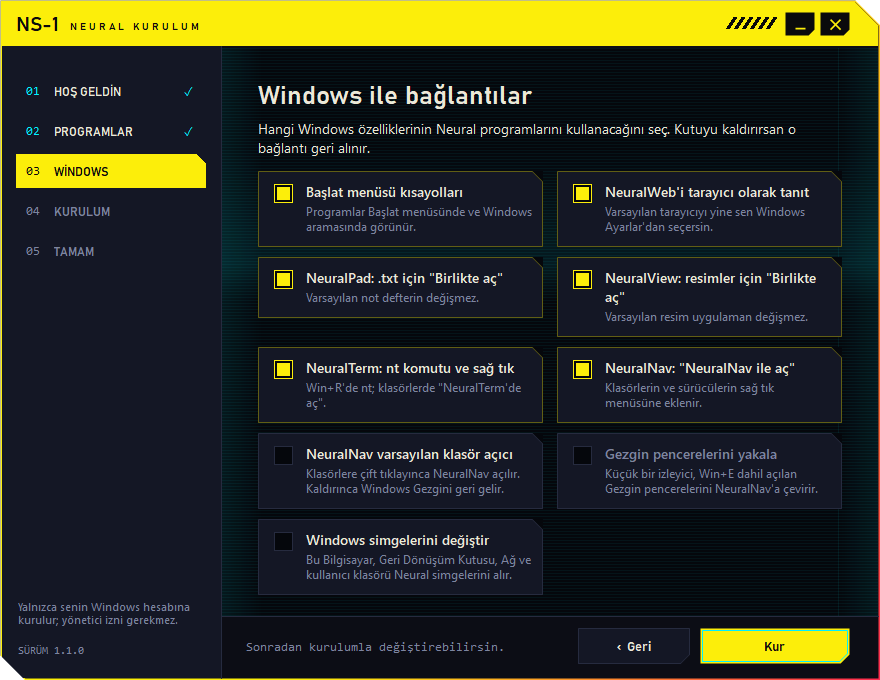
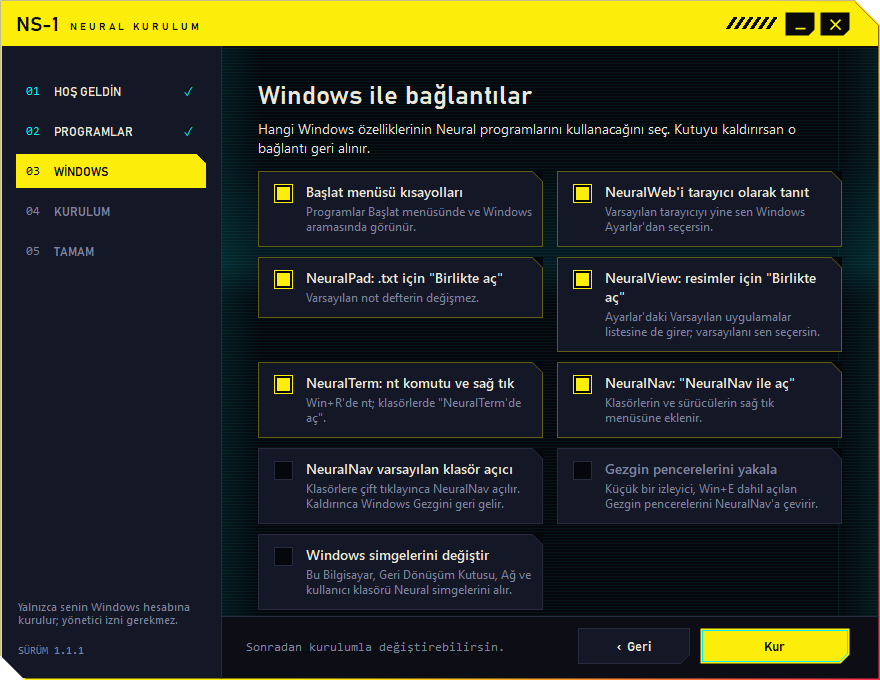
Release 1.1.1 "Karakoy": NeuralView in Windows' Default apps list
Windows lets only the user choose a default app, so double-clicking a
picture kept opening the previous default even with NeuralView in "Open
with". The setup now registers NeuralView under RegisteredApplications with
Capabilities for its twelve picture types, so it has its own page in
Settings > Apps > Default apps. The entries belong to the NeuralView "Open
with" option and are removed with it, together with the empty
Software\NeuralSystems key.

The last page of the wizard gets a "Varsayılan resim uygulaması yap…"
button next to NeuralWeb's browser button; both open their program's page
in Settings, and a note says why the choice stays with the user.

Bumps the series and all six apps to 1.1.1; patch releases keep the
codename. README (badge, file names, option table, NeuralView guide,
versions), changelog and the README images are updated.

Changed region(s): [[0.2761, 0.4632, 0.9818, 0.8956]]

diff --git a/docs/src/banner.html b/docs/src/banner.html
@@ -42,7 +42,7 @@
     <h1>NEURAL <span>SERIES</span></h1>
     <div class="sub">Six cyberpunk desktop apps for Windows: a calculator, a notepad, a file explorer, a terminal, a web browser and an image viewer.</div>
   </div>
-  <div class="tag"><div class="v">v1.1.0</div><div class="c">KARAKOY</div></div>
+  <div class="tag"><div class="v">v1.1.1</div><div class="c">KARAKOY</div></div>
   <div class="units">
     <div class="unit"><img src="../../apps/neuralcalc/icon.png" alt=""><div class="t"><span class="chip">KX-9</span><span class="n">NeuralCalc</span></div></div>
     <div class="unit"><img src="../../apps/neuralpad/icon.png" alt=""><div class="t"><span class="chip">NP-7</span><span class="n">NeuralPad</span></div></div>

diff --git a/docs/src/showcase.html b/docs/src/showcase.html
@@ -17,7 +17,7 @@
 <div class="device"><div class="body">
   <div class="band">
     <span class="code">NS-1</span><span class="name">LINEUP</span>
-    <span class="readout">6 UNITS ONLINE // v1.1.0 KARAKOY</span><span class="hazard"></span>
+    <span class="readout">6 UNITS ONLINE // v1.1.1 KARAKOY</span><span class="hazard"></span>
   </div>
   <div class="screen"></div>
   <img class="shot" src="../images/screenshots/neuralweb.png" style="left: 40px; top: 84px; width: 740px;">

diff --git a/installer/src/Wizard.cs b/installer/src/Wizard.cs
@@ -370,7 +370,7 @@ namespace NeuralSetup
             cWeb = Check("NeuralWeb'i tarayıcı olarak tanıt", "Varsayılan tarayıcıyı yine sen Windows Ayarlar'dan seçersin.", web && o.WebRegister, x2, Y, colW);
             Y += row(cStart, cWeb);
             cPad = Check("NeuralPad: .txt için \"Birlikte aç\"", "Varsayılan not defterin değişmez.", pad && o.PadOpenWith, x1, Y, colW);
-            cView = Check("NeuralView: resimler için \"Birlikte aç\"", "Varsayılan resim uygulaman değişmez.", view && o.ViewOpenWith, x2, Y, colW);
+            cView = Check("NeuralView: resimler için \"Birlikte aç\"", "Ayarlar'daki Varsayılan uygulamalar listesine de girer; varsayılanı sen seçersin.", view && o.ViewOpenWith, x2, Y, colW);
             Y += row(cPad, cView);
             cTerm = Check("NeuralTerm: nt komutu ve sağ tık", "Win+R'de nt; klasörlerde \"NeuralTerm'de aç\".", term && o.TermCommands, x1, Y, colW);
             cNavMenu = Check("NeuralNav: \"NeuralNav ile aç\"", "Klasörlerin ve sürücülerin sağ tık menüsüne eklenir.", nav && o.NavMenu, x2, Y, colW);
@@ -407,18 +407,29 @@ namespace NeuralSetup
             f.Status = o.Root;
             Title(existing ? "Güncelleme tamamlandı" : "Kurulum tamamlandı");
             Lead("Neural serisi hazır. Programlar Başlat menüsünde; hepsi " + o.Root + " klasöründe.");
-            bool web = o.Apps.Contains("NeuralWeb");
+            bool web = o.Apps.Contains("NeuralWeb"), view = o.Apps.Contains("NeuralView");
             if (web)
             {
                 cOpenWeb = Check("NeuralWeb'i şimdi aç", "Bitir'e basınca tarayıcı açılır.", !o.Test, X, Y, W / 2);
                 Y += cOpenWeb.Height + T.P(14);
-                if (o.WebRegister)
-                {
-                    var b = new NButton { Text = "Varsayılan tarayıcıyı seç…", Location = new Point(X, Y), Size = new Size(T.P(250), T.P(36)) };
-                    b.Click += delegate { TryStart("ms-settings:defaultapps?registeredAppUser=NeuralWeb"); };
-                    f.Screen.Controls.Add(b);
-                    Y += b.Height + T.P(18);
-                }
+            }
+            // Windows lets only the user choose a default app; each button opens that program's page in Settings.
+            var defaults = new List<NButton>();
+            Func<string, string, int, NButton> settingsButton = (text, app, width) =>
+            {
+                var b = new NButton { Text = text, Size = new Size(T.P(width), T.P(36)) };
+                b.Click += delegate { TryStart("ms-settings:defaultapps?registeredAppUser=" + app); };
+                return b;
+            };
+            if (web && o.WebRegister) defaults.Add(settingsButton("Varsayılan tarayıcıyı seç…", "NeuralWeb", 250));
+            if (view && o.ViewOpenWith) defaults.Add(settingsButton("Varsayılan resim uygulaması yap…", "NeuralView", 290));
+            if (defaults.Count > 0)
+            {
+                int x = X;
+                foreach (var b in defaults) { b.Location = new Point(x, Y); f.Screen.Controls.Add(b); x += b.Width + T.P(12); }
+                Y += defaults[0].Height + T.P(10);
+                Note("Windows varsayılan uygulamayı yalnızca senin seçmene izin verir; " + (defaults.Count > 1 ? "her düğme" : "düğme") + " Ayarlar'da o programın sayfasını açar.");
+                Y += T.P(8);
             }
             Note("Seçenekleri değiştirmek için kurulumu yeniden çalıştırman yeterli. Kaldırmak için: Windows Ayarlar › Uygulamalar › Neural serisi.");
             Note("Kurulum günlüğü: " + Path.Combine(Path.GetTempPath(), "neural-kurulum.log"));

diff --git a/installer/src/Engine.cs b/installer/src/Engine.cs
@@ -250,8 +250,10 @@ namespace NeuralSetup
             r.DeleteValue(@"Software\Classes\.txt\OpenWithProgids", "NeuralPad.txt");
         }
 
-        // NeuralView joins "Open with" for images; the default picture app stays whatever the user chose.
+        // NeuralView joins "Open with" for images and the Default apps list of Windows Settings; the default picture app
+        // stays whatever the user chose (Windows lets only the user change it).
         static readonly string[] ImageExts = { ".jpg", ".jpeg", ".jpe", ".jfif", ".png", ".gif", ".webp", ".bmp", ".dib", ".ico", ".svg", ".avif" };
+        const string ViewCapabilities = @"Software\NeuralSystems\NeuralView\Capabilities";
         void RegisterView(Reg r)
         {
             string exe = ExePath("NeuralView"), ico = IcoPath("NeuralView") + ",0", cmd = Q(exe) + " \"%1\"";
@@ -269,12 +271,20 @@ namespace NeuralSetup
             r.Set(prog + @"\Application", "ApplicationDescription", "NeuralView VW-3 resim görüntüleyici");
             r.Set(prog + @"\Application", "AppUserModelId", Apps.Get("NeuralView").Aumid);
             foreach (var ext in ImageExts) r.SetNone(@"Software\Classes\" + ext + @"\OpenWithProgids", "NeuralView.Image");
+            r.Set(ViewCapabilities, "ApplicationName", "NeuralView");
+            r.Set(ViewCapabilities, "ApplicationDescription", "NeuralView VW-3 resim görüntüleyici");
+            r.Set(ViewCapabilities, "ApplicationIcon", ico);
+            foreach (var ext in ImageExts) r.Set(ViewCapabilities + @"\FileAssociations", ext, "NeuralView.Image");
+            r.Set(@"Software\RegisteredApplications", "NeuralView", ViewCapabilities);
         }
         void UnregisterView(Reg r)
         {
             r.DeleteTree(@"Software\Classes\Applications\NeuralView.exe");
             r.DeleteTree(@"Software\Classes\NeuralView.Image");
             foreach (var ext in ImageExts) r.DeleteValue(@"Software\Classes\" + ext + @"\OpenWithProgids", "NeuralView.Image");
+            r.DeleteValue(@"Software\RegisteredApplications", "NeuralView");
+            r.DeleteTree(@"Software\NeuralSystems\NeuralView");
+            r.DeleteIfEmpty(@"Software\NeuralSystems");
         }
 
         void Verb(Reg r, string baseKey, string name, string label, string exe, string arg)
@@ -705,6 +715,12 @@ namespace NeuralSetup
             using (var k = Registry.CurrentUser.OpenSubKey(prefix + key, true)) if (k != null) k.DeleteValue(name, false);
         }
         public void DeleteTree(string key) { Registry.CurrentUser.DeleteSubKeyTree(prefix + key, false); }
+        public void DeleteIfEmpty(string key)
+        {
+            using (var k = Registry.CurrentUser.OpenSubKey(prefix + key))
+                if (k == null || k.SubKeyCount > 0 || k.ValueCount > 0) return;
+            Registry.CurrentUser.DeleteSubKey(prefix + key, false);
+        }
     }
 
     /* ================================================================ the payload appended to this exe */

diff --git a/README.md b/README.md
@@ -3,7 +3,7 @@
 </p>
 
 <p align="center">
-  <a href="https://github.com/yigitcakmakci/neural-series/releases/latest"><img src="https://img.shields.io/badge/release-v1.1.0-fcee0a?style=for-the-badge&labelColor=0c0d15" alt="Release v1.1.0"></a>
+  <a href="https://github.com/yigitcakmakci/neural-series/releases/latest"><img src="https://img.shields.io/badge/release-v1.1.1-fcee0a?style=for-the-badge&labelColor=0c0d15" alt="Release v1.1.1"></a>
   <img src="https://img.shields.io/badge/codename-Karakoy-00f0ff?style=for-the-badge&labelColor=0c0d15" alt="Codename: Karakoy">
   <img src="https://img.shields.io/badge/Windows-10%20%7C%2011%20x64-00f0ff?style=for-the-badge&labelColor=0c0d15" alt="Windows 10 and 11, 64-bit">
   <img src="https://img.shields.io/badge/Electron-44.5.1-00f0ff?style=for-the-badge&labelColor=0c0d15" alt="Electron 44.5.1">
@@ -57,14 +57,14 @@ They are not mock-ups. They are the tools I use every day:
 
 | | Unit | Model | Version | What it is |
 |:-:|---|:-:|:-:|---|
-| <img src="apps/neuralcalc/icon.png" width="44" alt=""> | **NeuralCalc** | `KX-9` | 1.1.0 | Scientific calculator with a readout screen, memory and keyboard input |
-| <img src="apps/neuralpad/icon.png" width="44" alt=""> | **NeuralPad** | `NP-7` | 1.1.0 | Tabbed notepad with find and replace, encodings, sessions and themes |
-| <img src="apps/neuralnav/icon.png" width="44" alt=""> | **NeuralNav** | `NV-4` | 1.1.0 | Tabbed file explorer that can stand in for Windows File Explorer |
-| <img src="apps/neuralterm/icon.png" width="44" alt=""> | **NeuralTerm** | `NT-5` | 1.1.0 | Terminal for PowerShell, PowerShell 7, Command Prompt, Git Bash and WSL |
-| <img src="apps/neuralweb/icon.png" width="44" alt=""> | **NeuralWeb** | `NW-1` | 1.1.0 | Chromium-based web browser with an ad and tracker shield and a password manager |
-| <img src="apps/neuralview/icon.png" width="44" alt=""> | **NeuralView** | `VW-3` | 1.1.0 | Image viewer with folder browsing, zoom, lossless JPEG rotation and EXIF details |
+| <img src="apps/neuralcalc/icon.png" width="44" alt=""> | **NeuralCalc** | `KX-9` | 1.1.1 | Scientific calculator with a readout screen, memory and keyboard input |
+| <img src="apps/neuralpad/icon.png" width="44" alt=""> | **NeuralPad** | `NP-7` | 1.1.1 | Tabbed notepad with find and replace, encodings, sessions and themes |
+| <img src="apps/neuralnav/icon.png" width="44" alt=""> | **NeuralNav** | `NV-4` | 1.1.1 | Tabbed file explorer that can stand in for Windows File Explorer |
+| <img src="apps/neuralterm/icon.png" width="44" alt=""> | **NeuralTerm** | `NT-5` | 1.1.1 | Terminal for PowerShell, PowerShell 7, Command Prompt, Git Bash and WSL |
+| <img src="apps/neuralweb/icon.png" width="44" alt=""> | **NeuralWeb** | `NW-1` | 1.1.1 | Chromium-based web browser with an ad and tracker shield and a password manager |
+| <img src="apps/neuralview/icon.png" width="44" alt=""> | **NeuralView** | `VW-3` | 1.1.1 | Image viewer with folder browsing, zoom, lossless JPEG rotation and EXIF details |
 
-The series itself is versioned as a whole: **Neural Series 1.1.0, codename "Karakoy"**, built on Electron 44.5.1.
+The series itself is versioned as a whole: **Neural Series 1.1.1, codename "Karakoy"**, built on Electron 44.5.1.
 See [Versions](#versions) and the [changelog](CHANGELOG.md).
 
 > [!NOTE]
@@ -78,11 +78,11 @@ See [Versions](#versions) and the [changelog](CHANGELOG.md).
 **Requirements:** Windows 10 or 11 (64-bit), about 1.5 GB of disk space. The apps carry their own typefaces and work
 offline; NeuralWeb needs a connection to browse, of course, and to refresh its blocking lists.
 
-1. Download **`Neural-Setup-1.1.0.exe`** from the [latest release](https://github.com/yigitcakmakci/neural-series/releases/latest).
+1. Download **`Neural-Setup-1.1.1.exe`** from the [latest release](https://github.com/yigitcakmakci/neural-series/releases/latest).
 2. Run it. The setup is not code-signed, so Windows SmartScreen may say *"Windows protected your PC"*. Choose
    **More info → Run anyway**. You can compare the file's SHA-256 with the one in the release notes first:
    ```powershell
-   Get-FileHash .\Neural-Setup-1.1.0.exe -Algorithm SHA256
+   Get-FileHash .\Neural-Setup-1.1.1.exe -Algorithm SHA256
    ```
 3. Follow the wizard: pick the apps and the folder (default `%USERPROFILE%\Neural`), then choose how far the apps may
    hook into Windows. Every option can be changed later by running the setup again.
@@ -97,7 +97,7 @@ offline; NeuralWeb needs a connection to browse, of course, and to refresh its b
 | Start menu shortcuts (*Başlat menüsü kısayolları*) | on | The apps appear in Start and in Windows search |
 | Register NeuralWeb as a browser (*NeuralWeb'i tarayıcı olarak tanıt*) | on | NeuralWeb is offered in **Settings → Apps → Default apps**; choosing it stays with you |
 | NeuralPad in *Open with* for `.txt` | on | Your default text editor does not change |
-| NeuralView in *Open with* for images | on | JPEG, PNG, GIF, WebP, BMP, ICO, SVG and AVIF; your default picture app does not change |
+| NeuralView in *Open with* for images | on | JPEG, PNG, GIF, WebP, BMP, ICO, SVG and AVIF; NeuralView also appears in **Settings → Apps → Default apps**, where you can make it your default picture app |
 | NeuralTerm `nt` command and context menu | on | `Win+R` → `nt`; *"Open in NeuralTerm"* on folders and drives |
 | *"Open with NeuralNav"* context menu | on | Adds NeuralNav to the right-click menu of folders and drives |
 | NeuralNav as the default folder opener | off | Double-clicking a folder opens NeuralNav instead of File Explorer |
@@ -133,10 +133,10 @@ The switches are Turkish, like the rest of the interface.
 
 ```powershell
 # install everything silently with the default options
-.\Neural-Setup-1.1.0.exe /sessiz
+.\Neural-Setup-1.1.1.exe /sessiz
 
 # pick apps, options and folder; write a log
-.\Neural-Setup-1.1.0.exe /sessiz /uygulamalar:NeuralWeb,NeuralTerm /secenekler:baslat,web,nt /hedef:D:\Apps\Neural /gunluk:C:\Temp\neural.log
+.\Neural-Setup-1.1.1.exe /sessiz /uygulamalar:NeuralWeb,NeuralTerm /secenekler:baslat,web,nt /hedef:D:\Apps\Neural /gunluk:C:\Temp\neural.log
 
 # uninstall silently (add /veriler to delete settings and personal data too)
 & "$env:USERPROFILE\Neural\Ortak\NeuralKaldir.exe" /kaldir /sessiz
@@ -307,8 +307,8 @@ and your most visited sites. Searches and suggestions come from Google.
 
 <p align="center"><img src="docs/images/screenshots/neuralview.png" alt="NeuralView VW-3 with the information panel open" width="85%"></p>
 
-An image viewer. Open a picture (double-click it if NeuralView is in *Open with*, drag it onto the window, or use
-*Dosya → Aç*) and the whole folder comes with it: step through it with the arrow keys, the mouse wheel or the
+An image viewer. Open a picture (through *Open with*, by dragging it onto the window, or with *Dosya → Aç*) and the
+whole folder comes with it: step through it with the arrow keys, the mouse wheel or the
 thumbnail strip at the bottom, sorted by name, date or size (*Görünüm → Sırala*).
 
 - **Formats:** JPEG, PNG, GIF (animated), WebP, BMP, ICO, SVG and AVIF. HEIC/HEIF photos are listed, but NeuralView
@@ -321,6 +321,10 @@ thumbnail strip at the bottom, sorted by name, date or size (*Görünüm → Sı
   ISO and focal length. A picture that carries GPS coordinates is flagged with *"KONUM VERİSİ İÇERİR"* (contains
   location data), worth knowing before you share it.
 - Copy the picture or its path, show the file in NeuralNav, rename it, or move it to the Recycle Bin (asks first).
+- **Open pictures with a double-click:** make NeuralView your default picture app. Windows lets only you change a
+  default, so the setup never does it on its own: use **"Varsayılan resim uygulaması yap…"** (make it the default
+  picture app) on the setup's last page, or **Settings → Apps → Default apps → NeuralView**, and pick it for the
+  picture types you want.
 
 <details>
 <summary><b>NeuralView shortcuts</b></summary>
@@ -389,12 +393,12 @@ powershell -ExecutionPolicy Bypass -File build.ps1
 `build.ps1` restores the exact dependency versions from the lock files (Electron, xterm.js, the typefaces from
 [Fontsource](https://fontsource.org/), the Ghostery ad blocker), stages every app as the setup installs it in
 `out\stage` (with its `fonts\` folder), compiles the helpers and the setup, and writes
-`out\Neural-Setup-1.1.0.exe` together with its SHA-256. Run it with `-SkipNpm` to reuse the existing `node_modules`.
+`out\Neural-Setup-1.1.1.exe` together with its SHA-256. Run it with `-SkipNpm` to reuse the existing `node_modules`.
 
 To try a build without touching your Windows settings, install it in test mode:
 
 ```powershell
-.\out\Neural-Setup-1.1.0.exe /test /hedef:$env:TEMP\neural-test\Neural
+.\out\Neural-Setup-1.1.1.exe /test /hedef:$env:TEMP\neural-test\Neural
 ```
 
 Other tools: `tools\make-icons.ps1` redraws every icon, `node tools\make-fonts-css.js` rewrites the font style sheets
@@ -408,21 +412,22 @@ Build first: the README images and some tests use `out\`.
 
 | Release | Codename | Date | Notes |
 |---|---|---|---|
-| **1.1.0** | **Karakoy** | 2026-10-22 | New unit: the NeuralView VW-3 image viewer, with *Open with NeuralView* in NeuralNav and the setup |
+| **1.1.1** | **Karakoy** | 2026-10-22 | NeuralView in Windows' Default apps list, and a button in the setup to make it the default |
+| 1.1.0 | Karakoy | 2026-10-22 | New unit: the NeuralView VW-3 image viewer, with *Open with NeuralView* in NeuralNav and the setup |
 | 1.0.1 | Neo-Istanbul | 2026-10-22 | Bundled typefaces: the apps no longer load fonts from Google Fonts |
 | 1.0.0 | Neo-Istanbul | 2026-10-22 | First public release: five apps, the setup and uninstaller |
 
-| Unit | Model | 1.0.0 | 1.0.1 | 1.1.0 |
-|---|:-:|:-:|:-:|:-:|
-| NeuralCalc | `KX-9` | ✔ | ✔ | ✔ |
-| NeuralPad | `NP-7` | ✔ | ✔ | ✔ |
-| NeuralNav | `NV-4` | ✔ | ✔ | ✔ |
-| NeuralTerm | `NT-5` | ✔ | ✔ | ✔ |
-| NeuralWeb | `NW-1` | ✔ | ✔ | ✔ |
-| NeuralView | `VW-3` | | | ✔ |
+| Unit | Model | 1.0.0 | 1.0.1 | 1.1.0 | 1.1.1 |
+|---|:-:|:-:|:-:|:-:|:-:|
+| NeuralCalc | `KX-9` | ✔ | ✔ | ✔ | ✔ |
+| NeuralPad | `NP-7` | ✔ | ✔ | ✔ | ✔ |
+| NeuralNav | `NV-4` | ✔ | ✔ | ✔ | ✔ |
+| NeuralTerm | `NT-5` | ✔ | ✔ | ✔ | ✔ |
+| NeuralWeb | `NW-1` | ✔ | ✔ | ✔ | ✔ |
+| NeuralView | `VW-3` | | | ✔ | ✔ |
 
 Version numbers follow [Semantic Versioning](https://semver.org/). Every major and minor release gets a codename from
-the map of Neo-Istanbul; patch releases (1.0.x) keep the codename of their line. Details are in the
+the map of Neo-Istanbul; patch releases (1.0.x, 1.1.x) keep the codename of their line. Details are in the
 [changelog](CHANGELOG.md).
 
 <a id="privacy"></a>

diff --git a/CHANGELOG.md b/CHANGELOG.md
@@ -4,6 +4,20 @@ All notable changes to Neural Series are listed here. Versions follow [Semantic 
 Every major and minor release carries a codename from the map of Neo-Istanbul; patch releases keep the codename of
 their line.
 
+## 1.1.1 "Karakoy" (2026-10-22)
+
+All six apps are at 1.1.1. Run the new setup over an existing installation; options, settings and personal data are
+kept.
+
+### Changed
+
+- **Setup:** NeuralView is registered in the Default apps list of Windows Settings (*Settings → Apps → Default apps →
+  NeuralView*), with the twelve picture types it opens. Making it the default picture app is still your choice:
+  Windows lets only the user change a default, so the setup never does it on its own. The entries belong to the
+  NeuralView *Open with* option and are removed with it.
+- **Setup:** the last page has a **"Varsayılan resim uygulaması yap…"** button (make it the default picture app) next
+  to NeuralWeb's browser button; it opens NeuralView's page in Settings.
+
 ## 1.1.0 "Karakoy" (2026-10-22)
 
 A new unit joins the series: **NeuralView VW-3**, an image viewer. All six apps are at 1.1.0: NeuralCalc KX-9,
